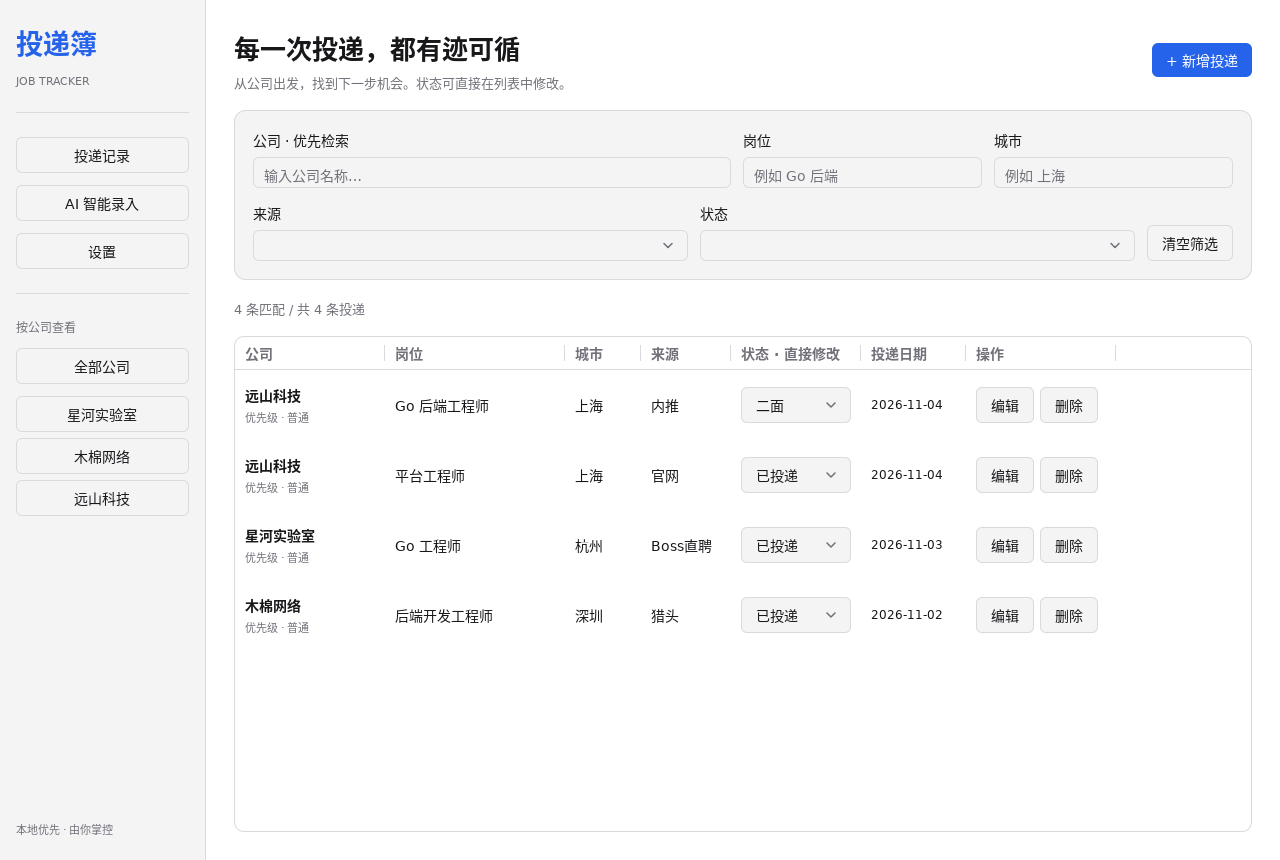
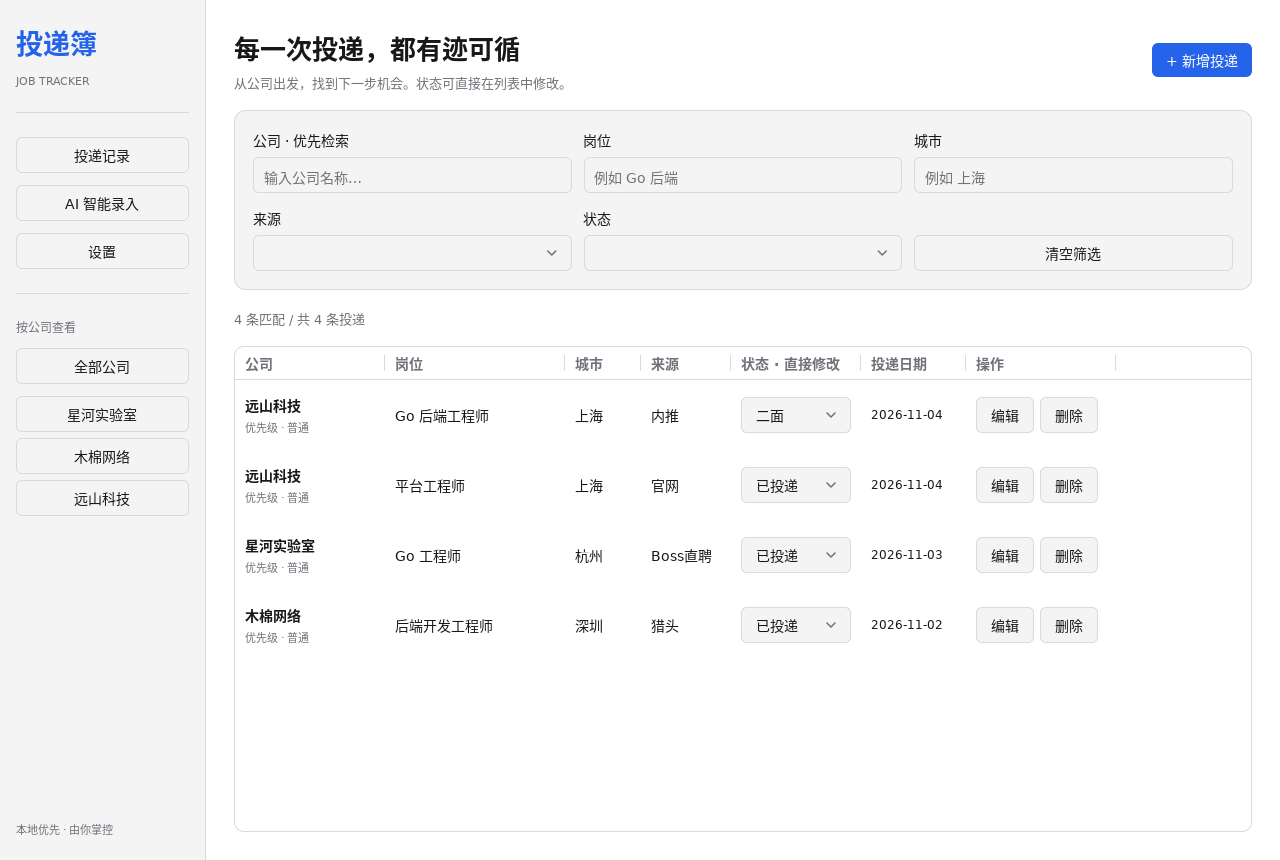
fix: align filters in an equal-width grid
Keep filter controls uniformly sized and bottom-align the clear action. Allow the content pane to shrink without clipping the third column, and refresh the README screenshot.

Amp-Thread-ID: https://ampcode.com/threads/T-01a1a6db-696d-737d-98e0-a7ad4ca6b3b6

diff --git a/views.go b/views.go
@@ -28,7 +28,7 @@ func (a *app) view(c *ui.Context) {
 			})
 			ui.Text(c, "本地优先 · 由你掌控").FontSize(11).TextColor(t.TextMuted)
 		})
-		ui.Column(c).Grow(1).FillHeight().Padding(28).Gap(18).Children(func() {
+		ui.Column(c).Grow(1).MinWidth(0).FillHeight().Padding(28).Gap(18).Children(func() {
 			ui.Column(c.Key(a.page)).Grow(1).Gap(18).Children(func() {
 				switch a.page {
 				case "edit":
@@ -77,19 +77,24 @@ func (a *app) list(c *ui.Context) {
 		heading(c, "每一次投递，都有迹可循", "从公司出发，找到下一步机会。状态可直接在列表中修改。")
 		ui.PrimaryButton(c, "+ 新增投递").OnClick(func() { a.edit(tracker.NewApplication(), false) })
 	})
-	ui.Column(c).Padding(18).Gap(14).Radius(12).Background(c.Theme().Surface).Border(1, c.Theme().Border).Children(func() {
-		ui.Row(c).Gap(12).AlignItems(ui.Start).Children(func() {
-			ui.Field(c, "公司 · 优先检索", func() {
-				ui.Autocomplete(c, &a.filter.Company, a.companies()).Label("筛选公司").Placeholder("输入公司名称…")
-			}).Grow(2)
-			inputField(c, "岗位", &a.filter.Role, "例如 Go 后端")
-			inputField(c, "城市", &a.filter.City, "例如 上海")
-		})
-		ui.Row(c).Gap(12).AlignItems(ui.End).Children(func() {
-			selectField(c, "来源", &a.filter.Source, a.sources())
-			selectField(c, "状态", &a.filter.Status, append([]string{""}, tracker.Statuses...))
-			ui.Button(c, "清空筛选").OnClick(func() { a.filter = tracker.Filter{} })
-		})
+	ui.Grid(c).Columns(3).AlignItems(ui.End).Padding(18).GapX(12).GapY(14).
+		Radius(12).Background(c.Theme().Surface).Border(1, c.Theme().Border).Children(func() {
+		ui.Field(c, "公司 · 优先检索", func() {
+			ui.Autocomplete(c, &a.filter.Company, a.companies()).Label("筛选公司").Placeholder("输入公司名称…").Height(36)
+		}).Grow(1)
+		ui.Field(c, "岗位", func() {
+			ui.TextInput(c, &a.filter.Role).Label("岗位").Placeholder("例如 Go 后端").Height(36)
+		}).Grow(1)
+		ui.Field(c, "城市", func() {
+			ui.TextInput(c, &a.filter.City).Label("城市").Placeholder("例如 上海").Height(36)
+		}).Grow(1)
+		ui.Field(c, "来源", func() {
+			ui.Select(c, &a.filter.Source, a.sources()).Label("来源").Height(36)
+		}).Grow(1)
+		ui.Field(c, "状态", func() {
+			ui.Select(c, &a.filter.Status, append([]string{""}, tracker.Statuses...)).Label("状态").Height(36)
+		}).Grow(1)
+		ui.Button(c, "清空筛选").Height(36).FillWidth().OnClick(func() { a.filter = tracker.Filter{} })
 	})
 	visible := make([]*tracker.Application, 0, len(a.items))
 	for i := range a.items {
